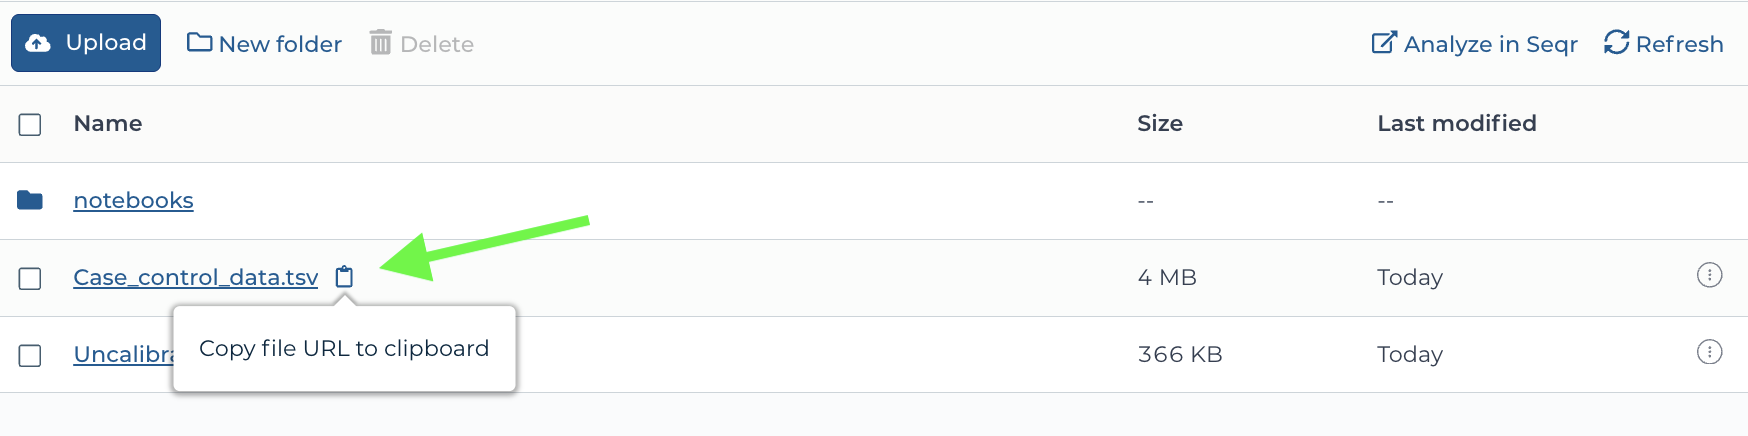
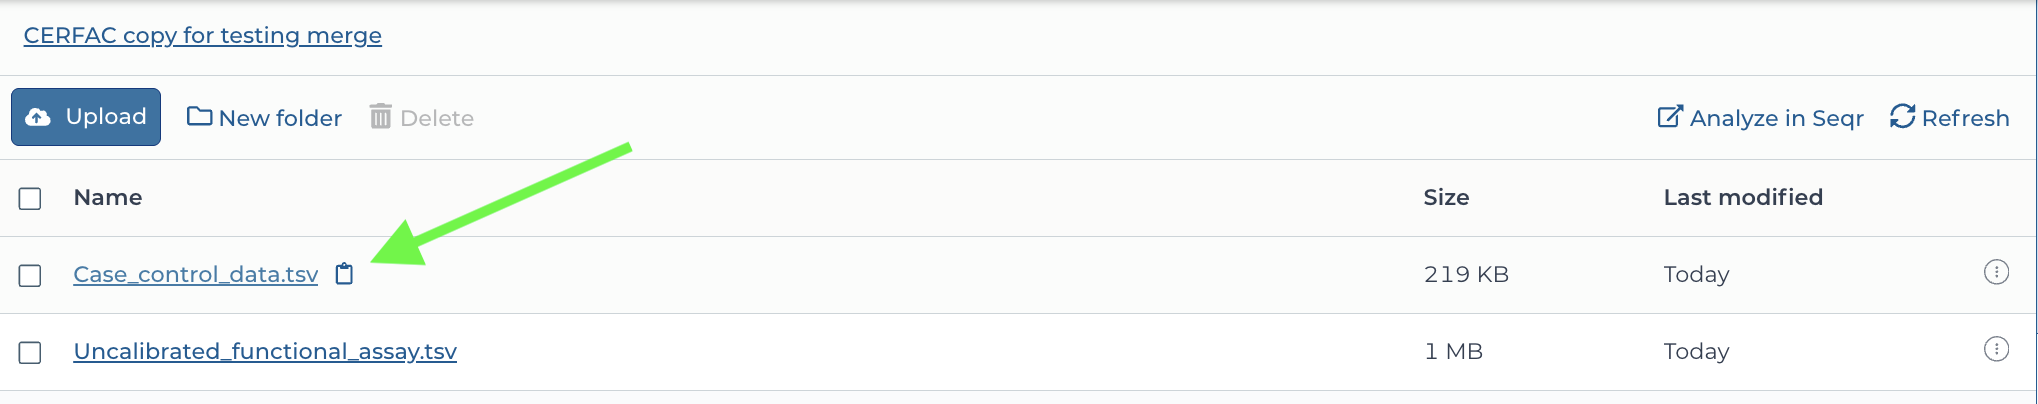
Updated images

diff --git a/CERFAC_documentation.md b/CERFAC_documentation.md
@@ -89,7 +89,7 @@ A list of files in the workspace should appear in blue text. Click the blue Uplo
 
 If you are following along with the sample data, you should first download the files [Case_control_data.tsv](https://github.com/BRCAChallenge/CERFAC/blob/main/example_data/Case_control_data.tsv) and [Uncalibrated_functional_assay.tsv](https://github.com/BRCAChallenge/CERFAC/blob/main/example_data/Uncalibrated_functional_assay.tsv) to your local computer, and then upload each file in turn.
 
-![](https://github.com/BRCAChallenge/CERFAC/blob/main/doc_images/5_upload_to_Files.png?raw=true)
+![](https://github.com/BRCAChallenge/CERFAC/blob/main/doc_images/5_upload_to_files.png?raw=true)
 
 ...**and then** we must add those files to the data table. 
 
